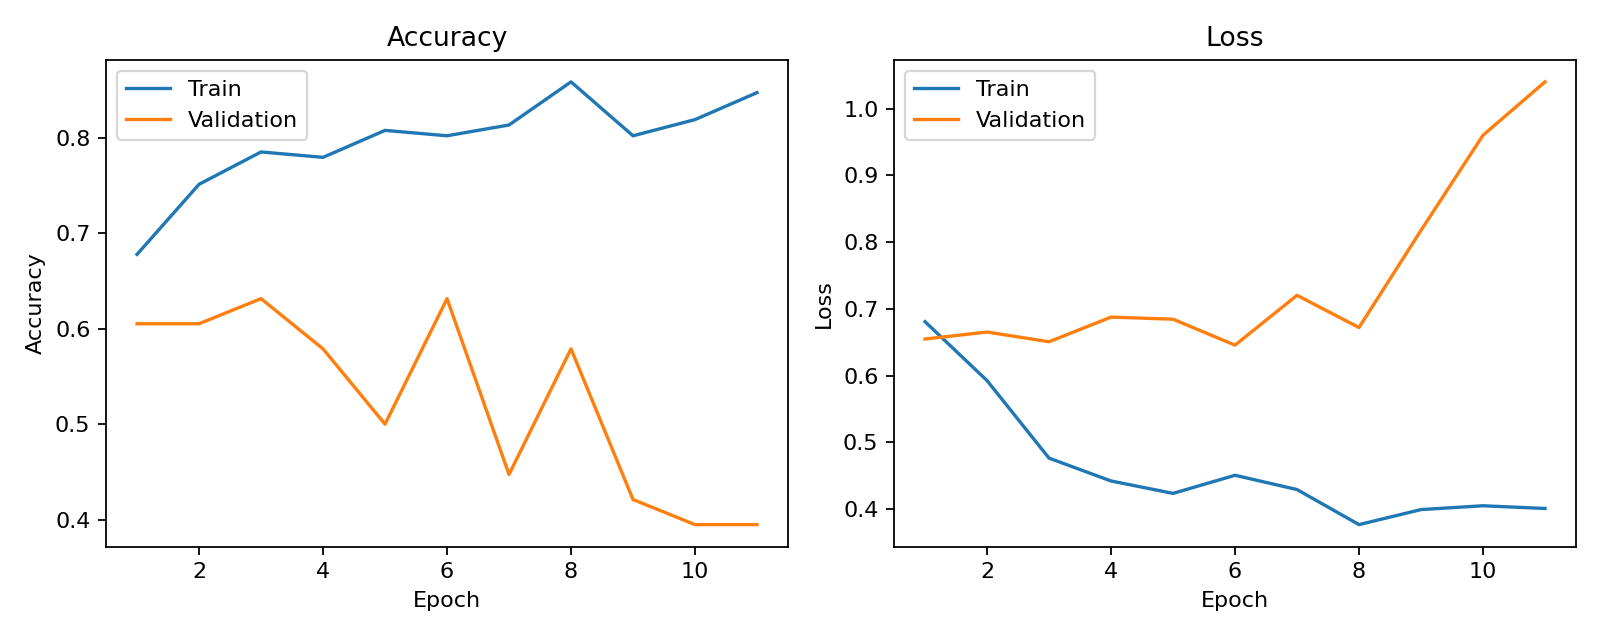
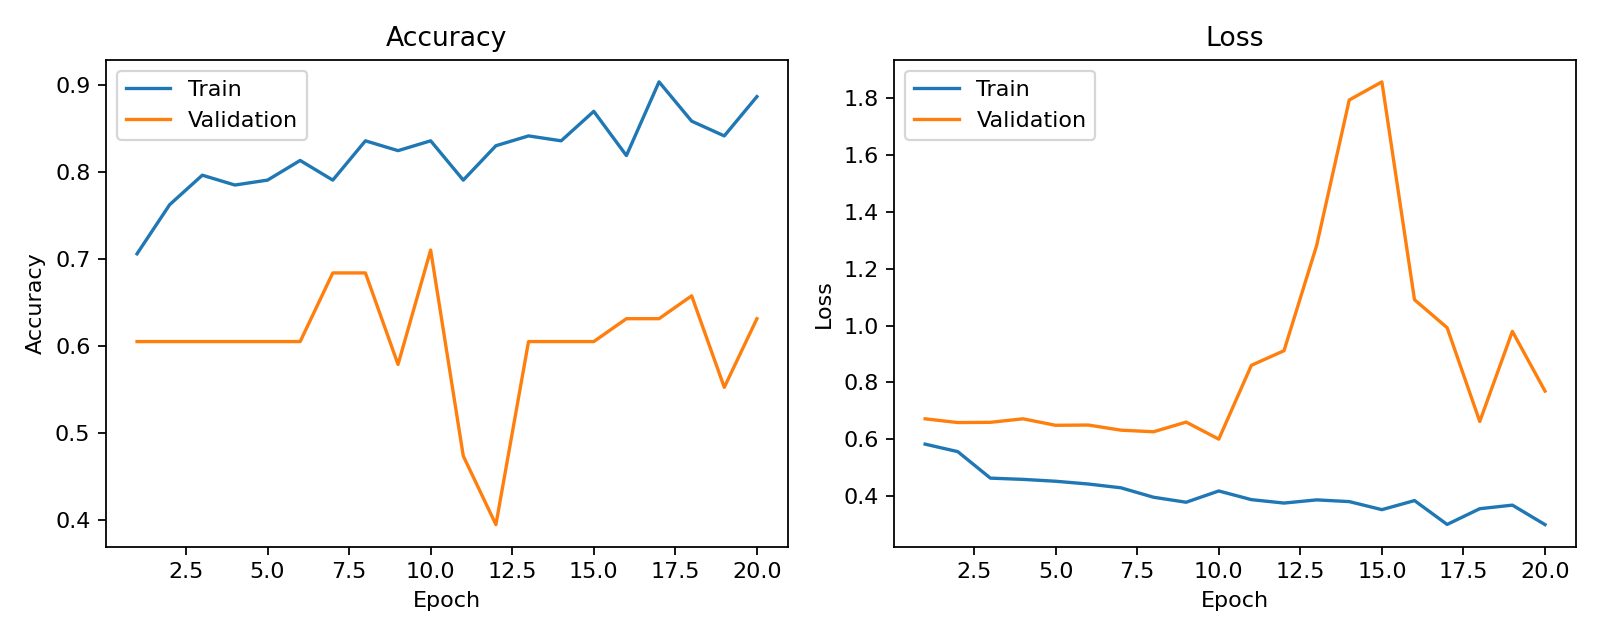
Add augmented CNN training workflow

diff --git a/src/augment_train_rotate.py b/src/augment_train_rotate.py
@@ -1,0 +1,129 @@
+import argparse
+import shutil
+import sys
+from pathlib import Path
+
+from PIL import Image
+
+if hasattr(sys.stdout, "reconfigure"):
+    sys.stdout.reconfigure(encoding="utf-8")
+
+
+VALID_SUFFIXES = {".jpg", ".jpeg", ".png", ".bmp"}
+
+
+def parse_angles(value: str) -> list[float]:
+    angles: list[float] = []
+    for item in value.split(","):
+        item = item.strip()
+        if item:
+            angles.append(float(item))
+    if not angles:
+        raise argparse.ArgumentTypeError("At least one rotation angle is required.")
+    return angles
+
+
+def parse_args() -> argparse.Namespace:
+    parser = argparse.ArgumentParser(
+        description="Create a bigger brain MRI dataset by rotating training images."
+    )
+    parser.add_argument(
+        "--input",
+        default="data/processed",
+        help="Processed dataset folder that contains train, val, and test.",
+    )
+    parser.add_argument(
+        "--output",
+        default="data/processed_augmented",
+        help="Output folder for the augmented dataset.",
+    )
+    parser.add_argument(
+        "--angles",
+        type=parse_angles,
+        default=parse_angles("-20,-10,10,20"),
+        help="Comma-separated rotation angles, for example: -20,-10,10,20.",
+    )
+    parser.add_argument(
+        "--keep-original",
+        action=argparse.BooleanOptionalAction,
+        default=True,
+        help="Copy the original train images in addition to rotated images.",
+    )
+    return parser.parse_args()
+
+
+def image_files(folder: Path) -> list[Path]:
+    return sorted(
+        path
+        for path in folder.iterdir()
+        if path.is_file() and path.suffix.lower() in VALID_SUFFIXES
+    )
+
+
+def copy_tree(source: Path, target: Path) -> None:
+    if source.exists():
+        shutil.copytree(source, target)
+
+
+def save_rotated_image(source: Path, target: Path, angle: float) -> None:
+    target.parent.mkdir(parents=True, exist_ok=True)
+    with Image.open(source) as image:
+        image = image.convert("RGB")
+        rotated = image.rotate(angle, resample=Image.Resampling.BICUBIC, expand=False, fillcolor=(0, 0, 0))
+        rotated.save(target, quality=95)
+
+
+def augment_train_split(input_train: Path, output_train: Path, angles: list[float], keep_original: bool) -> tuple[int, int]:
+    original_count = 0
+    augmented_count = 0
+
+    for class_dir in sorted(path for path in input_train.iterdir() if path.is_dir()):
+        output_class_dir = output_train / class_dir.name
+        output_class_dir.mkdir(parents=True, exist_ok=True)
+
+        for image_path in image_files(class_dir):
+            original_count += 1
+            if keep_original:
+                shutil.copy2(image_path, output_class_dir / image_path.name)
+
+            for angle in angles:
+                angle_name = str(angle).replace("-", "neg").replace(".", "p")
+                target_name = f"{image_path.stem}_rot_{angle_name}{image_path.suffix.lower()}"
+                save_rotated_image(image_path, output_class_dir / target_name, angle)
+                augmented_count += 1
+
+    return original_count, augmented_count
+
+
+def main() -> None:
+    args = parse_args()
+    input_dir = Path(args.input)
+    output_dir = Path(args.output)
+    input_train = input_dir / "train"
+
+    if not input_train.exists():
+        raise FileNotFoundError(f"Train folder not found: {input_train}")
+
+    if output_dir.exists():
+        shutil.rmtree(output_dir)
+    output_dir.mkdir(parents=True)
+
+    copy_tree(input_dir / "val", output_dir / "val")
+    copy_tree(input_dir / "test", output_dir / "test")
+
+    original_count, augmented_count = augment_train_split(
+        input_train,
+        output_dir / "train",
+        args.angles,
+        args.keep_original,
+    )
+
+    total_train = augmented_count + (original_count if args.keep_original else 0)
+    print(f"Original train images: {original_count}")
+    print(f"Rotated train images:  {augmented_count}")
+    print(f"New train total:       {total_train}")
+    print("Output:", output_dir.resolve())
+
+
+if __name__ == "__main__":
+    main()

diff --git a/src/train_cnn_augmented.py b/src/train_cnn_augmented.py
@@ -16,9 +16,9 @@ if hasattr(sys.stdout, "reconfigure"):
     sys.stdout.reconfigure(encoding="utf-8")
 
 
-DATA_DIR = Path("data/processed")
-MODEL_PATH = Path("models/brain_mri_classifier.keras")
-RESULTS_DIR = Path("results")
+DATA_DIR = Path("data/processed_augmented")
+MODEL_PATH = Path("models/brain_mri_classifier_augmented.keras")
+RESULTS_DIR = Path("results_augmented")
 IMAGE_SIZE = (224, 224)
 BATCH_SIZE = 16
 EPOCHS = 50
@@ -250,7 +250,12 @@ def main() -> None:
     val_ds = val_ds.cache().prefetch(buffer_size=autotune)
     test_ds = test_ds.cache().prefetch(buffer_size=autotune)
 
-    model = build_model()
+    if MODEL_PATH.exists():
+        print("Loading existing model from:", MODEL_PATH.resolve())
+        model = tf.keras.models.load_model(MODEL_PATH)
+    else:
+        model = build_model()
+
     best_test_checkpoint = BestTestCheckpoint(
         test_ds,
         MODEL_PATH,

diff --git a/README.md b/README.md
@@ -62,6 +62,24 @@ data\processed\
 python src\train_cnn.py
 ```
 
+Optional: create a bigger training dataset with rotated copies:
+
+```bash
+python src\augment_train_rotate.py
+```
+
+This writes:
+
+```text
+data\processed_augmented\
+```
+
+Train using the augmented dataset:
+
+```bash
+python src\train_cnn_augmented.py
+```
+
 The trained model is saved to:
 
 ```text
